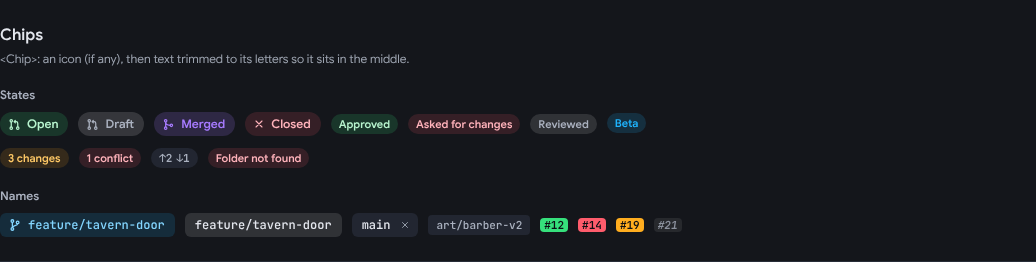
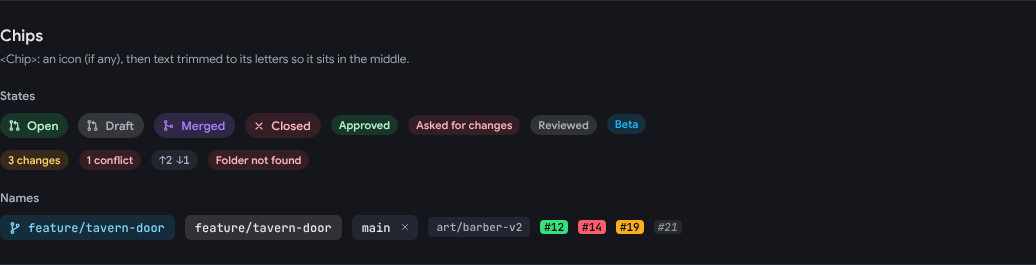
Centre the words on chips, Re-run failed and other small controls
The same rule for the controls the pixel check didn't reach yet: medium
chips (the toolbar's branch, pull request states and names) are 25px,
Re-run failed and the update button 25px, hunk buttons 21px and the
Write and Preview tabs 27px. The update button's words are trimmed to
their capitals, as other buttons' are.

The catalogue's pictures are updated: buttons and chips a pixel taller,
and the rows below them a pixel lower.

diff --git a/src/styles/chips.css b/src/styles/chips.css
@@ -1,6 +1,7 @@
 /* Chips: small labels for a state (Open, Approved, Beta, 3 changes…) or a name (a branch).
    Their sizes and shapes are all here; each one's colours are with its area.
-   - Two heights: small (20px) beside text and in lists, medium (24px) on their own.
+   - Two heights: small (20px) beside text and in lists, medium (25px) on their own: even
+     for words at --type-xs and odd at --type-sm, so they're in the middle (see --cap-pixels).
    - States are pills, their words in bold; names are tags (rounded rectangles) in the code
      font, as GitHub shows them.
    - The text is trimmed to its letters (<Chip>, or `chip-text`), so it sits in the middle
@@ -38,7 +39,7 @@
 .name-chip,
 .head-chip {
   gap: var(--space-6);
-  height: 24px;
+  height: 25px;
   padding: 0 var(--space-10);
   font-size: var(--type-sm);
 }

diff --git a/src/App.tsx b/src/App.tsx
@@ -472,7 +472,7 @@ export default function App() {
                     }
                   >
                     <DownloadIcon size={13} />
-                    {updates.waiting ? "Restarting…" : updates.ready ? "Restart to update" : "Update"}
+                    <span className="button-label">{updates.waiting ? "Restarting…" : updates.ready ? "Restart to update" : "Update"}</span>
                   </button>
                 )
               }

diff --git a/src/styles/notices.css b/src/styles/notices.css
@@ -5,7 +5,8 @@
   align-items: center;
   align-self: center;
   gap: var(--space-6);
-  height: 24px;
+  /* Odd, for words at --type-sm: see --cap-pixels. */
+  height: 25px;
   margin-left: var(--space-8);
   padding: 0 var(--space-10);
   border: 1px solid rgb(var(--accent-rgb) / 0.45);

diff --git a/src/styles/diff.css b/src/styles/diff.css
@@ -205,7 +205,8 @@
 .hunk-button {
   display: inline-flex;
   align-items: center;
-  height: 20px;
+  /* Odd, for words at --type-sm: see --cap-pixels. */
+  height: 21px;
   padding: 0 var(--space-8);
   border: 1px solid var(--border-strong);
   border-radius: var(--radius-md);

diff --git a/src/styles/details.css b/src/styles/details.css
@@ -628,7 +628,8 @@
   display: inline-flex;
   align-items: center;
   gap: var(--space-6);
-  height: 24px;
+  /* Odd, for words at --type-sm: see --cap-pixels. */
+  height: 25px;
   margin-left: auto;
   padding: 0 var(--space-10);
   border: 1px solid var(--border-strong);

diff --git a/src/styles/markdown.css b/src/styles/markdown.css
@@ -202,7 +202,8 @@
 .markdown-field-tab {
   display: inline-flex;
   align-items: center;
-  height: 26px;
+  /* Odd, for words at --type-base: see --cap-pixels. */
+  height: 27px;
   padding: 0 var(--space-12);
   border: none;
   border-radius: var(--radius-md);
